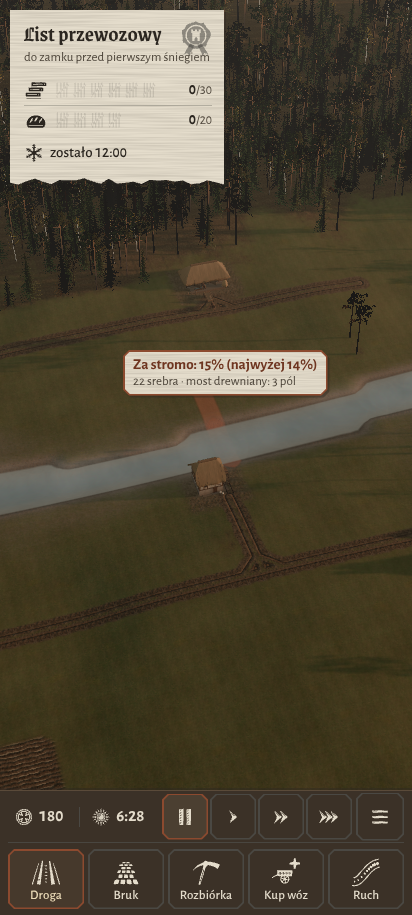
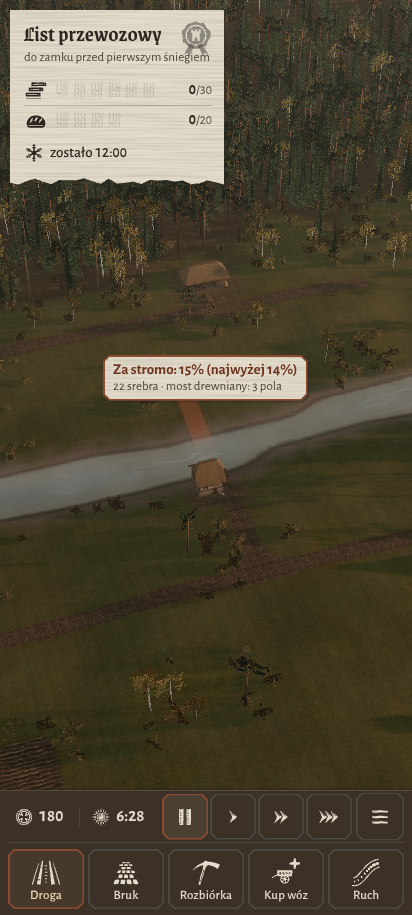
WIP snapshot: UI and render polish in progress
Claude-Session: https://claude.ai/code/session_019bNUiNWDs1XtC7FDp2iuqt

diff --git a/src/render/groundCover.ts b/src/render/groundCover.ts
@@ -1,0 +1,242 @@
+// Small ground cover, all instanced and untextured (one draw call per kind):
+//  - reeds / sedge clumps along the river banks (static, rebuilt with the road network)
+//  - grass tufts and low shrubs scattered only around the camera target at close zoom,
+//    generated per 8 m tile (cached) and faded in by scale toward the edge of the radius.
+import {
+  BufferAttribute,
+  BufferGeometry,
+  Color,
+  Group,
+  InstancedMesh,
+  type Material,
+  Matrix4,
+  Quaternion,
+  Vector3,
+} from 'three';
+import type { World } from '../sim/index';
+import { net } from '../sim/index';
+import { CELL, type Heightfield } from './heightfield';
+import { hash3, rng, vnoise } from './models/kit';
+import { modelMaterial } from './models/materials';
+import { treeParts } from './models/trees';
+import type { RoadField } from './roads';
+
+/** A clump of tapered blades (one triangle each), leaning outward. */
+function bladeClump(n: number, h0: number, h1: number, spread: number, lean: number, base: string, tip: string, seed: number, mixTip?: string): BufferGeometry {
+  const r = rng(seed);
+  const pos: number[] = [], nor: number[] = [], col: number[] = [];
+  const cb = new Color(base), ct = new Color(tip), cm = new Color(mixTip ?? tip), c = new Color();
+  for (let i = 0; i < n; i++) {
+    const a = r() * Math.PI * 2;
+    const d = Math.sqrt(r()) * spread;
+    const bx = Math.cos(a) * d, bz = Math.sin(a) * d;
+    const h = h0 + (h1 - h0) * r();
+    const l = lean * (0.4 + r() * 0.8);
+    const tx = bx + Math.cos(a) * l * h, tz = bz + Math.sin(a) * l * h;
+    const w = 0.02 + r() * 0.03;
+    // blade width perpendicular to the lean direction
+    const px = -Math.sin(a + (r() - 0.5)) * w, pz = Math.cos(a + (r() - 0.5)) * w;
+    pos.push(bx - px, 0, bz - pz, bx + px, 0, bz + pz, tx, h, tz);
+    for (let k = 0; k < 3; k++) {
+      // soft up-and-out normals so clumps shade like a volume
+      const nx = Math.cos(a) * 0.35, nz = Math.sin(a) * 0.35;
+      nor.push(nx, 0.94, nz);
+    }
+    const tipC = r() < 0.3 ? cm : ct;
+    c.copy(cb).multiplyScalar(0.8 + r() * 0.2);
+    col.push(c.r, c.g, c.b, c.r, c.g, c.b);
+    c.copy(tipC).multiplyScalar(0.85 + r() * 0.3);
+    col.push(c.r, c.g, c.b);
+  }
+  const g = new BufferGeometry();
+  g.setAttribute('position', new BufferAttribute(new Float32Array(pos), 3));
+  g.setAttribute('normal', new BufferAttribute(new Float32Array(nor), 3));
+  g.setAttribute('color', new BufferAttribute(new Float32Array(col), 3));
+  g.computeBoundingSphere();
+  return g;
+}
+
+interface Item { x: number; y: number; z: number; rot: number; s: number; kind: 0 | 1; tint: number }
+
+const TILE = 8;
+const _m = new Matrix4();
+const _q = new Quaternion();
+const _p = new Vector3();
+const _s = new Vector3();
+const _up = new Vector3(0, 1, 0);
+const _c = new Color();
+const TINTS = [new Color('#ffffff'), new Color('#d9d0a8'), new Color('#b7c0a4'), new Color('#efe0b0')];
+
+export class GroundCover {
+  readonly group = new Group();
+  private reeds: InstancedMesh | null = null;
+  private tufts: InstancedMesh;
+  private shrubs: InstancedMesh[];
+  private tiles = new Map<number, Item[]>();
+  private world: World | null = null;
+  private roads: RoadField | null = null;
+  private lastX = Infinity;
+  private lastZ = Infinity;
+  private lastR = 0;
+  /** Scatter radius (m) at close zoom; 0 disables tufts (low quality). */
+  radius = 38;
+
+  constructor(private readonly hf: Heightfield) {
+    const tg = bladeClump(11, 0.22, 0.55, 0.16, 0.45, '#3f4430', '#7d7a52', 5, '#5c6440');
+    this.tufts = new InstancedMesh(tg, modelMaterial('grass') as Material, 2600);
+    this.tufts.count = 0;
+    this.tufts.name = 'grass-tufts';
+    this.tufts.receiveShadow = true;
+    this.tufts.frustumCulled = false;
+    this.tufts.setColorAt(0, _c.set(1, 1, 1));
+    this.group.add(this.tufts);
+    this.shrubs = treeParts('bush').map((p) => {
+      const m = new InstancedMesh(p.geometry, modelMaterial(p.material) as Material, 220);
+      m.count = 0;
+      m.name = `low-shrub-${p.material}`;
+      m.castShadow = true;
+      m.receiveShadow = true;
+      m.frustumCulled = false;
+      this.group.add(m);
+      return m;
+    });
+  }
+
+  /** Rebuild the static reeds and drop cached tiles (roads / buildings changed). */
+  rebuild(world: World, roads: RoadField): void {
+    this.world = world;
+    this.roads = roads;
+    this.tiles.clear();
+    this.lastX = Infinity;
+    this.buildReeds(roads);
+  }
+
+  private buildReeds(roads: RoadField): void {
+    const hf = this.hf, WL = hf.waterLevel;
+    if (this.reeds) { this.group.remove(this.reeds); this.reeds.dispose(); this.reeds.geometry.dispose(); }
+    const items: number[] = [];
+    const S = 1.25;
+    for (let z = 0; z < hf.sizeZ; z += S) for (let x = 0; x < hf.sizeX; x += S) {
+      const cx = Math.floor(x / CELL), cz = Math.floor(z / CELL);
+      if (hf.waterDist[cz * hf.w + cx]! > 2.5) continue;
+      const jx = x + hash3(Math.round(x * 4), Math.round(z * 4), 1, 5) * S;
+      const jz = z + hash3(Math.round(x * 4), Math.round(z * 4), 2, 5) * S;
+      const h = hf.height(jx, jz) - WL;
+      if (h < -0.22 || h > 0.32) continue;
+      // reed beds in patches, with gaps of open bank
+      const patch = vnoise(jx / 11, jz / 9, 0.5, 61) + (vnoise(jx / 3, jz / 3, 1.5, 62) - 0.5) * 0.3;
+      if (patch < 0.5) continue;
+      if (roads.distAt(jx, jz) < 4.5) continue;
+      const s = 0.65 + 0.6 * Math.min(1, (patch - 0.5) * 3) * (0.7 + hash3(Math.round(jx * 3), Math.round(jz * 3), 3, 5) * 0.5);
+      items.push(jx, hf.height(jx, jz) - 0.05, jz, hash3(Math.round(jx * 5), 0, Math.round(jz * 5), 7) * 6.28, s);
+    }
+    const n = items.length / 5;
+    const g = bladeClump(18, 0.8, 1.7, 0.35, 0.22, '#3d3c2b', '#988659', 9, '#626541');
+    const m = new InstancedMesh(g, modelMaterial('grass') as Material, Math.max(1, n));
+    for (let i = 0; i < n; i++) {
+      const k = i * 5;
+      _q.setFromAxisAngle(_up, items[k + 3]!);
+      const sc = items[k + 4]!;
+      _m.compose(_p.set(items[k]!, items[k + 1]!, items[k + 2]!), _q, _s.set(sc, sc * (0.8 + (i % 7) * 0.06), sc));
+      m.setMatrixAt(i, _m);
+    }
+    m.count = n;
+    m.castShadow = false;
+    m.receiveShadow = true;
+    m.name = 'reeds';
+    m.computeBoundingSphere();
+    this.reeds = m;
+    this.group.add(m);
+  }
+
+  private tile(tx: number, tz: number): Item[] {
+    const key = tz * 4096 + tx;
+    let t = this.tiles.get(key);
+    if (t) return t;
+    t = [];
+    const hf = this.hf, w = this.world, roads = this.roads;
+    if (w && roads) {
+      const occ = net(w).occupied;
+      const terr = w.terrain;
+      const S = 1.35;
+      for (let j = 0; j < TILE / S; j++) for (let i = 0; i < TILE / S; i++) {
+        const gx = tx * TILE + i * S, gz = tz * TILE + j * S;
+        const hsh = hash3(Math.round(gx * 3), Math.round(gz * 3), 11, 3);
+        const x = gx + hsh * S, z = gz + hash3(Math.round(gx * 3), Math.round(gz * 3), 12, 3) * S;
+        if (!hf.inside(x, z)) continue;
+        const ci = Math.floor(z / CELL) * terr.w + Math.floor(x / CELL);
+        if (terr.water[ci] || terr.field[ci] || occ[ci] !== -1) continue;
+        const rdist = roads.distAt(x, z);
+        if (rdist < 2.1) continue;
+        // clumpy density: thick in some patches, bare in others
+        const dens = vnoise(x / 7, z / 7, 3.5, 63) * 0.9 + (terr.forest[ci]! > 0.3 ? -0.35 : 0) + (rdist < 3.2 ? 0.25 : 0);
+        const r2 = hash3(Math.round(x * 7), Math.round(z * 7), 13, 3);
+        if (r2 > dens) continue;
+        const y = hf.height(x, z);
+        if (y - hf.waterLevel < 0.3) continue;
+        const shrub = r2 < 0.035 && rdist > 3.5;
+        t.push({ x, y: y - 0.03, z, rot: hsh * 6.28, s: shrub ? 0.28 + r2 * 4 : 0.7 + hsh * 0.7, kind: shrub ? 1 : 0, tint: Math.floor(hash3(Math.round(x * 2), Math.round(z * 2), 14, 3) * TINTS.length) });
+      }
+    }
+    if (this.tiles.size > 900) this.tiles.clear();
+    this.tiles.set(key, t);
+    return t;
+  }
+
+  /** Re-scatter tufts around the camera target when it moved; `dist` = camera distance. */
+  update(target: Vector3, dist: number, force = false): void {
+    const R = this.radius * (1 - smooth(55, 95, dist));
+    const dx = target.x - this.lastX, dz = target.z - this.lastZ;
+    if (!force && dx * dx + dz * dz < 9 && Math.abs(R - this.lastR) < 1.5) return;
+    this.lastX = target.x;
+    this.lastZ = target.z;
+    this.lastR = R;
+    let nT = 0, nS = 0;
+    if (R > 4) {
+      const t0x = Math.floor((target.x - R) / TILE), t1x = Math.floor((target.x + R) / TILE);
+      const t0z = Math.floor((target.z - R) / TILE), t1z = Math.floor((target.z + R) / TILE);
+      for (let tz = t0z; tz <= t1z; tz++) for (let tx = t0x; tx <= t1x; tx++) {
+        for (const it of this.tile(tx, tz)) {
+          const d = Math.hypot(it.x - target.x, it.z - target.z);
+          const f = 1 - smooth(R * 0.6, R, d);
+          if (f < 0.05) continue;
+          _q.setFromAxisAngle(_up, it.rot);
+          const sc = it.s * f;
+          _m.compose(_p.set(it.x, it.y, it.z), _q, _s.set(sc, sc, sc));
+          if (it.kind === 0) {
+            if (nT >= this.tufts.instanceMatrix.count) continue;
+            this.tufts.setMatrixAt(nT, _m);
+            this.tufts.setColorAt(nT, _c.copy(TINTS[it.tint]!));
+            nT++;
+          } else if (nS < this.shrubs[0]!.instanceMatrix.count) {
+            for (const m of this.shrubs) m.setMatrixAt(nS, _m);
+            nS++;
+          }
+        }
+      }
+    }
+    this.tufts.count = nT;
+    this.tufts.visible = nT > 0;
+    this.tufts.instanceMatrix.needsUpdate = true;
+    if (this.tufts.instanceColor) this.tufts.instanceColor.needsUpdate = true;
+    for (const m of this.shrubs) {
+      m.count = nS;
+      m.visible = nS > 0;
+      m.instanceMatrix.needsUpdate = true;
+    }
+  }
+
+  dispose(): void {
+    for (const c of this.group.children) {
+      const m = c as InstancedMesh;
+      m.dispose();
+    }
+    this.reeds?.geometry.dispose();
+    this.tufts.geometry.dispose();
+  }
+}
+
+function smooth(a: number, b: number, x: number): number {
+  const t = Math.min(1, Math.max(0, (x - a) / (b - a)));
+  return t * t * (3 - 2 * t);
+}

diff --git a/src/render/view.ts b/src/render/view.ts
@@ -20,6 +20,7 @@ import { BridgesView } from './bridgesView';
 import { BuildingsView } from './buildingsView';
 import { CameraRig } from './cameraRig';
 import { Effects } from './fx';
+import { GroundCover } from './groundCover';
 import { CELL, Heightfield } from './heightfield';
 import { Lighting } from './lighting';
 import { applyTextures, foliageLift, type MatKey } from './models/materials';
@@ -67,6 +68,7 @@ class View implements WorldView {
   private roads: RoadField | null = null;
   private overlay: OverlayData | null = null;
   private vegetation: VegetationView | null = null;
+  private cover: GroundCover | null = null;
   private buildings: BuildingsView | null = null;
   private bridges = new BridgesView();
   private wagons: WagonsView | null = null;
@@ -157,6 +159,8 @@ class View implements WorldView {
       this.terrain = new TerrainView(hf, this.roads, this.overlay);
       this.water = new WaterView(hf);
       this.vegetation = new VegetationView(hf, this.treeGroup);
+      this.cover = new GroundCover(hf);
+      this.worldGroup.add(this.cover.group);
       this.buildings = new BuildingsView(hf);
       this.wagons = new WagonsView(hf);
       this.worldGroup.add(this.terrain.group, this.water.mesh, this.water.mist, this.buildings.group, this.wagons.group);
@@ -180,6 +184,7 @@ class View implements WorldView {
     if (this.buildings) { this.worldGroup.remove(this.buildings.group); this.buildings.dispose(); }
     if (this.wagons) { this.worldGroup.remove(this.wagons.group); this.wagons.dispose(); }
     this.vegetation?.dispose();
+    if (this.cover) { this.worldGroup.remove(this.cover.group); this.cover.dispose(); this.cover = null; }
     this.terrain = null;
   }
 
@@ -195,6 +200,7 @@ class View implements WorldView {
     this.terrain!.updateGround(w);
     this.vegetation!.rebuild(w, this.roads);
     this.vegetation!.update(this.rig.camera.position, true);
+    this.cover?.rebuild(w, this.roads);
     this.updateEmitters(true);
   }
 
@@ -278,6 +284,7 @@ class View implements WorldView {
 
     this.buildings!.update(w, dt);
     this.vegetation!.update(cam.position);
+    this.cover?.update(this.rig.target, dist);
 
     this.trafficTimer -= dt;
     if (this.trafficTimer <= 0) {
@@ -429,6 +436,7 @@ class View implements WorldView {
     this.lighting.setShadowMapSize(high ? 2048 : 1024, true);
     this.vegetation?.setShadows(high);
     if (this.vegetation) this.vegetation.nearDist = high ? 95 : 60;
+    if (this.cover) this.cover.radius = high ? 38 : 0;
     this.wagons?.setShadows(true, high);
     if (this.wagons) this.wagons.lodDist = high ? 120 : 75;
     if (this.terrain) {

diff --git a/src/render/models/materials.ts b/src/render/models/materials.ts
@@ -27,7 +27,8 @@ export type MatKey =
   | 'metal' // iron fittings that need a sheen
   | 'needles' // conifer branch sprays (alpha cards; right half of the texture is solid)
   | 'leaves' // alpha-tested leaf cards
-  | 'billboard'; // far-tree impostor cards (map baked by `bakeTreeBillboards`)
+  | 'billboard' // far-tree impostor cards (map baked by `bakeTreeBillboards`)
+  | 'grass'; // grass tufts, reeds, sedge (untextured double-sided blades)
 
 interface MatSpec {
   roughness: number;
@@ -50,6 +51,7 @@ const SPECS: Record<MatKey, MatSpec> = {
   needles: { roughness: 0.92, side: 'double', alphaNeedle: true },
   leaves: { roughness: 0.85, side: 'double', alphaLeaf: true },
   billboard: { roughness: 0.95, side: 'double' },
+  grass: { roughness: 0.92, side: 'double' },
 };
 
 export interface TextureSet {
@@ -91,7 +93,7 @@ export function modelMaterial(key: MatKey): MeshStandardMaterial {
   });
   if (s.side === 'double') m.side = DoubleSide;
   m.name = `model-${key}`;
-  if (key === 'needles' || key === 'leaves' || key === 'billboard') addFoliageLift(m, key);
+  if (key === 'needles' || key === 'leaves' || key === 'billboard' || key === 'grass') addFoliageLift(m, key);
   if (s.alphaLeaf) {
     m.map = leafTexture();
     m.alphaTest = 0.5;
